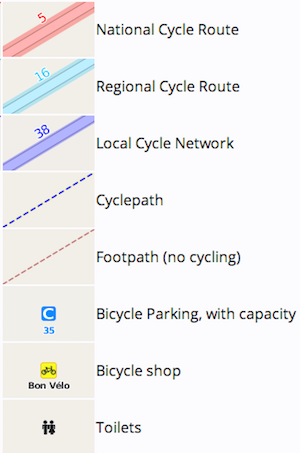
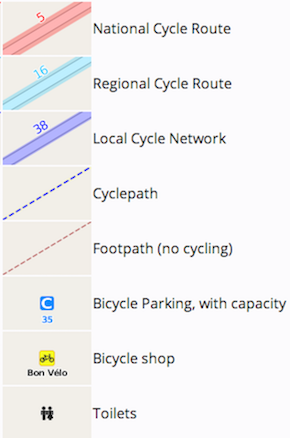
sidemen and images

diff --git a/index.html b/index.html
@@ -1,10 +1,9 @@
 <!DOCTYPE html>
-<html lang='en'>
+<html>
 <head>
-	<meta charset="utf-8">
-	<meta http-equiv="X-UA-Compatible" content="IE=edge">
-	<meta name="viewport" content="width=device-width, initial-scale=1">
 	<title>bikemapcode</title>
+	<meta name="viewport" content="width=device-width, initial-scale=1.0">
+	<meta charset="utf-8">
 	<link rel="shortcut icon" href="favicon.ico">
 	<!-- load Bootstrap CSS for mobile devices -->
 	<link rel="stylesheet" href="https://maxcdn.bootstrapcdn.com/bootstrap/3.3.7/css/bootstrap.min.css" integrity="sha384-BVYiiSIFeK1dGmJRAkycuHAHRg32OmUcww7on3RYdg4Va+PmSTsz/K68vbdEjh4u" crossorigin="anonymous">
@@ -32,9 +31,9 @@
 	<!-- load distance markers with geometry from local directory; see also style.css -->
 	<script src="src/leaflet.geometryutil.js" type="text/javascript"></script>
 	<script src="src/leaflet-distance-marker.js" type="text/javascript"></script>
-	<!-- load leaflet-sidebar from local directory -->
-	<link rel="stylesheet" href="src/L.Control.Sidebar.css" />
-	<script src="src/L.Control.Sidebar.js"></script>
+	<!-- load Leaflet.SlideMenu from local directory -->
+	<link rel="stylesheet" href="src/L.Control.SlideMenu.css" />
+	<script src="src/L.Control.SlideMenu.js"></script>
 	<!-- load custom css -->
 	<link rel="stylesheet" href="style.css"/>
 </head>
@@ -54,7 +53,7 @@
 
 	var controlLayers = L.control.layers( null, null, {
 	  position: "topleft",
-	  collapsed: false
+	  collapsed: true
 	}).addTo(map);
 
 	L.control.locate({
@@ -62,11 +61,25 @@
 		strings: {title: "Show my location"} // To do: resize icon to make text appear alongside
 	}).addTo(map);
 
+	map.addControl( new L.Control.Compass({position: "topleft"}) );
+
 	new L.control.zoom({position: "topleft",}).addTo(map);
 
 	L.control.scale().addTo(map);
 
-	map.addControl( new L.Control.Compass() );
+	// slide menu contents and position
+	var contents = '<h4>BikeMapCode</h4>';
+	contents += '<h5>Mobile-friendly web maps<br>with open-source templates</h5>';
+	contents += '<img src="images/BikeMapCodeKey.png" alt="BikeMapCode key" width="196" height="299">';
+	contents += '<p>Distributed as-is with no warranty</p>';
+	contents += '<p>Stop your bike in a safe place before using</p>';
+	contents += '<p>Requires internet access to view maps and location</p>';
+	contents += '<p>Allow your browser to show your location<br> - iPhone > Settings > Privacy > Location Services (On) > Safari (While Using)<br> - Android (to come)</p>';
+	contents += '<img src="images/AllowCurrentLocation.png" alt="Allow Current Location screen" width="290" height="178">';
+	contents += '<h5>Open Cycle Map layer legend</h5>';
+	contents += '<img src="images/OpenCycleMapKey.png" alt="OpenCycleMap key" width="290" height="438">';
+	var slideMenu = L.control.slideMenu('', {position: 'topright', width: '300px', height: '100%', delay: '1'}).addTo(map);
+	slideMenu.setContents(contents);
 
 	// SAMPLE BASELAYERS
 

diff --git a/style.css b/style.css
@@ -10,22 +10,23 @@ body {
   width: 100%;
 }
 
-/*slide menu question circle icon*/
-.leaflet-control-slidemenu a {
-  width: 36px;
-  height: 36px;
-  line-height: 36px;
-  font-size: 2em;
-}
-
-/*size and color of leaflet-control-locate*/
+/*controls some/all leaflet buttons*/
 /*.leaflet-bar a, .leaflet-bar a:hover {
     width: 36px;
     height: 36px;
     line-height: 36px;
 }*/
 
-.leaflet-control-locate a {
+/* slide menu button with question circle */
+.leaflet-control-slidemenu a, .leaflet-control-slidemenu a:hover {
+  width: 36px;
+  height: 36px;
+  line-height: 36px;
+  font-size: 2em;
+}
+
+/* leaflet-control-locate button*/
+.leaflet-control-locate a, leaflet-control-locate a:hover {
   width: 36px;
   height: 36px;
   line-height: 36px;

diff --git a/README.md b/README.md
@@ -1,20 +1,32 @@
 bikemapcode
 ===========
 
-Mobile-friendly bike maps, for desktop or smartphone. Share multiple routes or tours (GPX or KML), with optional geotagged Flickr photos, on your own website with free and easy-to-modify open-source code, created with Leaflet.js.
+Mobile-friendly web maps created with open-source Leaflet templates.
+- Show multiple color-coded routes (uploaded as GPX files)
+- Allow users to find their location on desktops or smartphones
+- Display geotagged Flickr photos from your journeys
+- Host your map on a free GitHub Pages site or your own website
 
 Distributed as-is with no warranty under [an MIT license](https://raw.githubusercontent.com/JackDougherty/bikemapcode/master/LICENSE). Feedback and code contributions welcome on GitHub or email to [jack.dougherty@trincoll.edu](mailto:jack.dougherty@trincoll.edu)
 
-## Demo
+## Demos
+
+Direct link
 - https://jackdougherty.github.io/bikemapcode/index.html
 
-### Shortlinks for bike events (all point to secure https)
+Simplified with a link shortener to wide distribution (* to come)
+
+Web map embedded in a WordPress.org site (* to come)
+
+Web map embedded in a Weebly site (* to come)
+
+### Sample short links for bike events
 - bit.ly/bikeweha (https://jackdougherty.github.io/bikemapcode/westhartford.html)
 - bit.ly/bikenewbrit (https://jackdougherty.github.io/bikemapcode/newbritain.html)
 - bit.ly/bikegbury (https://jackdougherty.github.io/bikemapcode/glastonbury.html)
 - bit.ly/bikemapjack (https://jackdougherty.github.io/bikemapcode/index.html)
 
-### Bike tours
+### Sample links to bike tours with photos
 - https://jackdougherty.github.io/bikemapcode/quebec2015.html
 - https://jackdougherty.github.io/bikemapcode/COGAP2015.html
 - https://jackdougherty.github.io/bikemapcode/ECG2014.html
@@ -43,7 +55,7 @@ Distributed as-is with no warranty under [an MIT license](https://raw.githubuser
 ## To Do
 - Esri-leaflet to display ArcGIS layers at https://github.com/Esri/esri-leaflet (Apache license)
 - Explain how users can copy, edit, and host their own version on GitHub. See basics at http://DataVizForAll.org
-- Improve index.html version
+- Add reminder: always point to secure https (required by Chrome for geolocation)
 - Add Google Maps bicycling layer via Leaflet, if licensing allows
 - Add Strava popular bike routes layer http://labs.strava.com/heatmap/#13/-72.69000/41.76000/blue/bike
 - Decide about routes via Arcgisonline: [City of Hartford bike lanes](http://gis1.hartford.gov/arcgis/rest/services/OpenData_Community/MapServer/9) and [HartfordAreaBikeMap layers hosted by Cameron Douglass and Alex Perez at Trinity College](http://services1.arcgis.com/5rblLCKLgS4Td60j/arcgis/rest/services/)
